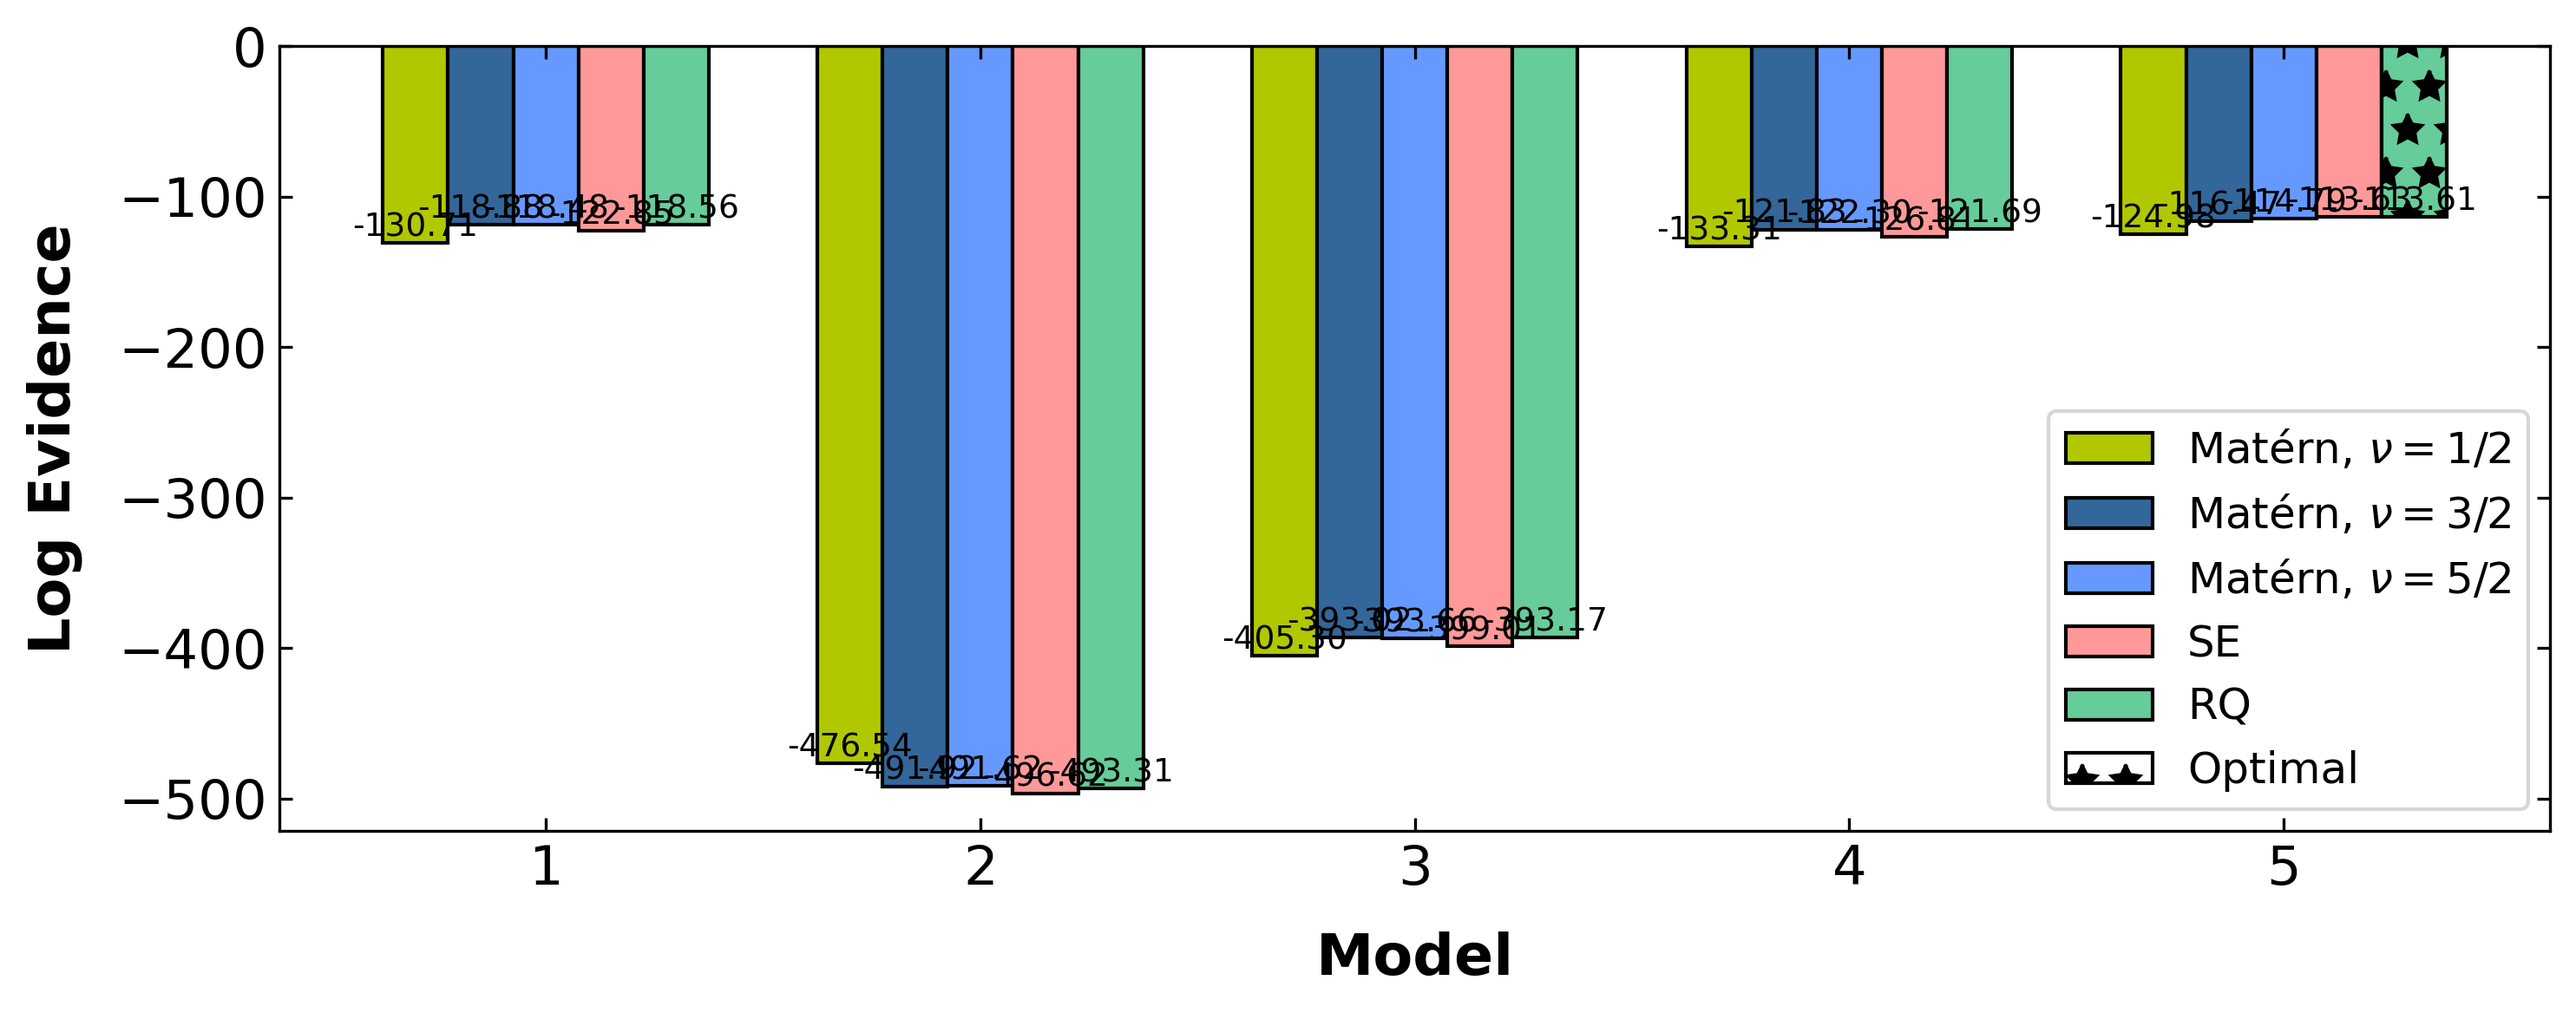
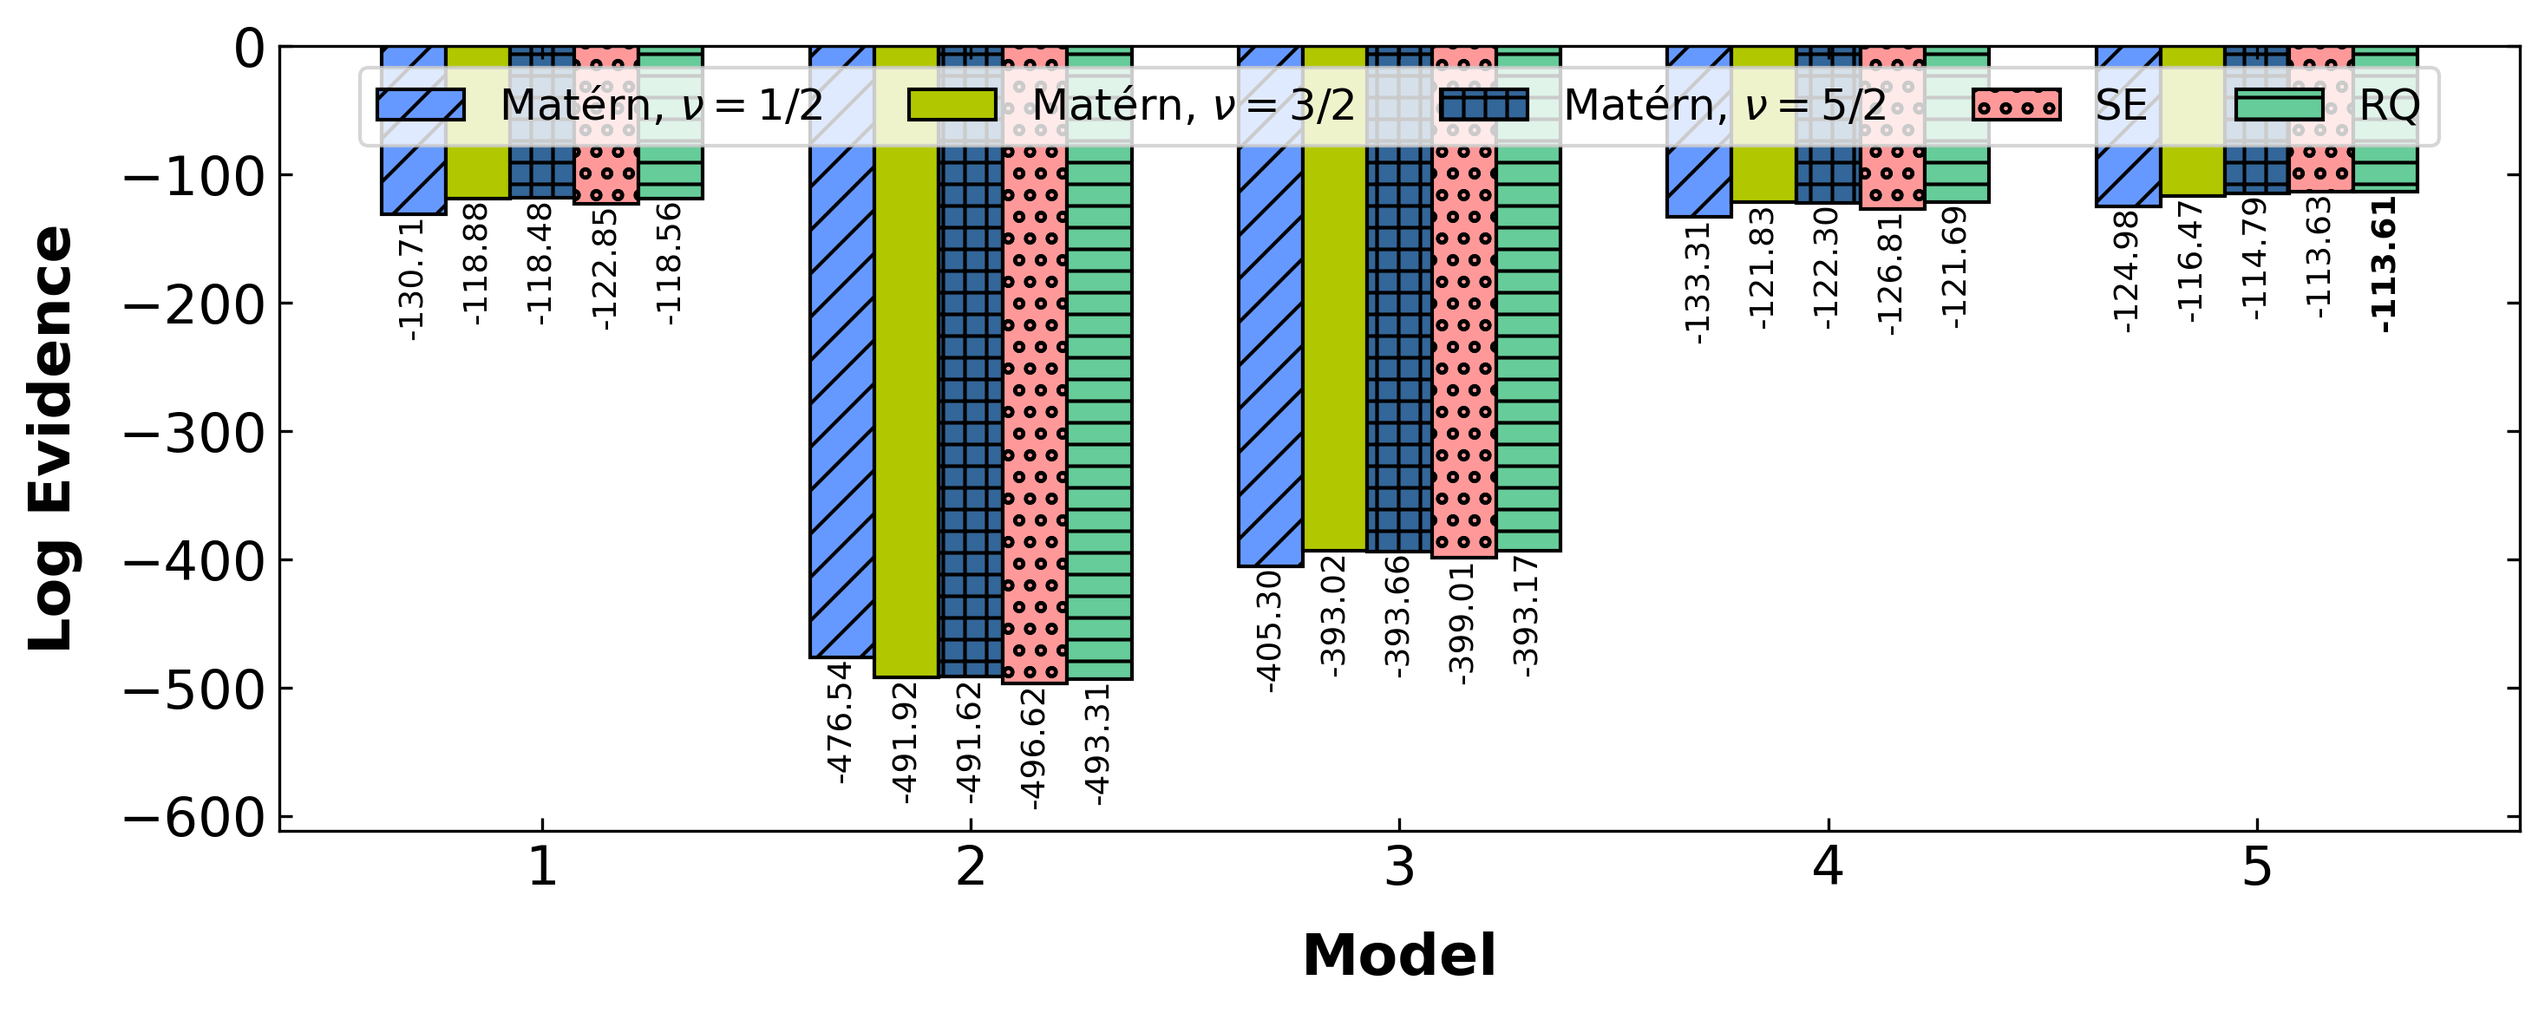
trying to figure out which files are missing

diff --git a/plot_lml_4real.py b/plot_lml_4real.py
@@ -4,6 +4,9 @@ import matplotlib.pyplot as plt
 import global_plot_settings
 from matplotlib.patches import Patch
 
+### Tb_5_Matern12_False is fake
+### Tb_5_RQ_True is fake
+
 global_plot_settings.set_plot_settings()
 
 # Read the CSV file containing the LML values
@@ -21,9 +24,14 @@ def rename_kernel(kernel):
         return "SE"
     else:
         return kernel
+    
+# Define your selected colors with the new color replacing mustard yellow
+selected_colors = ['#6699ff', '#b1c800', '#336699', '#ff9999', '#66cc99']
+hatches = ['//', None, '++', 'oo', '--']
 
 # Create a bar chart for each thermophysical property
 for property in df['Property'].unique():
+    print('--------'+property)
    
     # Filter the DataFrame for the current thermophysical property
     property_df = df[df['Property'] == property]
@@ -34,62 +42,82 @@ for property in df['Property'].unique():
     # Get unique models and kernels
     models = filtered_df['Model'].unique()
     kernels = filtered_df['Kernel'].unique()
-    
-    # Rename the kernels using the function
     renamed_kernels = [rename_kernel(kernel) for kernel in kernels]
-    
+
     # Set the positions and width for the bars
     bar_width = 0.15
     index = np.arange(len(models))
-    
-    # Define your selected colors with the new color replacing mustard yellow
-    selected_colors = ['#b1c800', '#336699', '#6699ff', '#ff9999', '#66cc99']
-    
-    # Create a bar chart for each kernel
-    plt.figure(figsize=(10, 4))
-    
-    for i, kernel in enumerate(kernels):
-        # Filter data for the specific kernel
-        kernel_df = filtered_df[filtered_df['Kernel'] == kernel]
-        
-        # Extract LML values and corresponding model numbers
-        lml_values = kernel_df['LML'].values
-        model_indices = [np.where(models == model)[0][0] for model in kernel_df['Model']]
-        
-        # Offset the bar positions by multiplying i by bar_width
-        bars = plt.bar(index + i * bar_width, lml_values, bar_width, label=rename_kernel(kernel), 
-                       color=selected_colors[i], edgecolor='black')  # Add black edgecolor
-        
-        # Add LML value callouts above each bar
-        for bar, value in zip(bars, lml_values):
-            plt.text(bar.get_x() + bar.get_width() / 2, bar.get_height(),
-                     f'{value:.2f}', ha='center', va='bottom', fontsize=9, color='black')
 
-    # Highlight the bar with the maximum LML value only once
+    # Determine the max LML and its correspnding index, model, and kernel
+    max_LML = max(filtered_df['LML'])
+    min_LML = min(filtered_df['LML'])
     max_index = filtered_df['LML'].idxmax()
     max_model = filtered_df.loc[max_index, 'Model']
     max_kernel = filtered_df.loc[max_index, 'Kernel']
     max_model_idx = np.where(models == max_model)[0][0]
     max_kernel_idx = kernels.tolist().index(max_kernel)
-    
-    # Plot the max value in the same color but with a hatch and black outline
-    plt.bar(index[max_model_idx] + max_kernel_idx * bar_width,
-            filtered_df.loc[max_index, 'LML'],
-            bar_width, color=selected_colors[max_kernel_idx], hatch='*', edgecolor='black')
 
-    # Create a custom legend entry for the "Optimal" bar with a black outline
-    optimal_patch = Patch(facecolor='white', edgecolor='black', hatch='*', label='Optimal')
+    # Create a bar chart with all kernels
+    plt.figure(figsize=(10, 4))
+    
+    # Loop over each kernel
+    for i, kernel in enumerate(kernels):
+        
+        # Filter data for the specific kernel
+        kernel_df = filtered_df[filtered_df['Kernel'] == kernel]
+        print(kernel_df)
+
+        # Extract LML values and corresponding model numbers
+        lml_values = kernel_df['LML'].values
+        model_indices = [np.where(models == model)[0][0] for model in kernel_df['Model']]
+        print(model_indices)
+        
+        # Offset the bar positions by multiplying i by bar_width
+        bars = plt.bar(index + i * bar_width, 
+                       lml_values,
+                       bar_width, 
+                       label = renamed_kernels[i], 
+                       color = selected_colors[i], 
+                       hatch = hatches[i], 
+                       edgecolor = 'black')
+        
+        # Add LML value callouts above each bar, with bold for the optimal value
+        for j, (bar, value) in enumerate(zip(bars, lml_values)):
+            if j == max_model_idx and i == max_kernel_idx:
+                weight = 'bold'
+            else:
+                weight = 'normal'
+            
+            # Position text slightly above the bar height with a balanced offset
+            plt.text(bar.get_x() + 0.5 * bar.get_width(), 
+                     bar.get_height(),
+                     f'{value:.2f}', 
+                     ha = 'center', 
+                     va = 'top', 
+                     rotation = 90, 
+                     fontsize = 9, 
+                     fontweight = weight)
     
     # Add labels and title
     plt.xlabel('Model')
     plt.ylabel('Log Evidence')
     plt.xticks(index + bar_width * (len(kernels) - 1) / 2, models)
+
+    offset = abs(max_LML - min_LML) * 0.3
+    # all LML values negative
+    if max_LML <= 0 and min_LML <= 0:
+        plt.ylim(min_LML - offset, 0)
+    # all LML values positive
+    elif max_LML >= 0 and min_LML >= 0:
+        plt.ylim(0, max_LML + offset)
+    # LML values both psitive and negative
+    else:
+        plt.ylim(min_LML - offset, max_LML + offset)
     
     # Include the custom "Optimal" patch and kernel patches with black outlines in the legend
-    plt.legend(loc='lower right', handles=[Patch(facecolor=selected_colors[i], edgecolor='black', label=renamed_kernels[i]) for i in range(len(kernels))] + [optimal_patch])
+    plt.legend(ncol = len(kernels), loc='upper center', handles=[Patch(facecolor=selected_colors[i], hatch = hatches[i], edgecolor='black', label=renamed_kernels[i]) for i in range(len(kernels))])
     plt.tight_layout()
     
     # Save the plot as a PNG file
     plt.savefig(f'lml_bar_chart_{property}.png')
     plt.close()
-    exit()

diff --git a/plot_error.py b/plot_error.py
@@ -1,7 +1,8 @@
+import os
 import numpy as np
 import pandas as pd
-import os
 import matplotlib.pyplot as plt
+import matplotlib.patches as mpatches
 import global_plot_settings as rcParams
 
 # Set global plot settings
@@ -9,7 +10,7 @@ rcParams.set_plot_settings()
 
 # Define custom colors
 mysalmon = (235/255, 134/255, 100/255)
-myteal = (103/255, 185/255, 155/255)
+myteal   = (103/255, 185/255, 155/255)
 
 # Define labels for the x-axis
 xlabels = [
@@ -21,7 +22,7 @@ xlabels = [
     '$V_c$' + '\n [cm' + '$^{3}$' + '$\cdot$' + ' mol' + '$^{-1}$' + ']'
 ]
 
-def plot_error_bars(ax, train_file, test_file, xlabels, width=0.2, ylabel=True, show_legend=False):
+def plot_error_bars(ax, train_file, test_file, xlabels, width=0.2, ylabel=True):
     """Plots error bars for the train and test datasets on a given axis."""
     # Load data
     train = pd.read_csv(train_file, index_col=0)
@@ -31,12 +32,12 @@ def plot_error_bars(ax, train_file, test_file, xlabels, width=0.2, ylabel=True, 
     x = np.arange(no_cats)
     
     # Plot MAE bars
-    bars1 = ax.bar(x - 1.5*width, train.loc['MAE'], width, color=mysalmon, edgecolor='k', label='Train MAE')
-    bars2 = ax.bar(x - width/2, test.loc['MAE'], width, color=mysalmon, edgecolor='k', hatch='//', label='Test MAE')
+    bars1 = ax.bar(x - 1.5*width, train.loc['MAE'], width, color=mysalmon, edgecolor='k')
+    bars2 = ax.bar(x - width/2, test.loc['MAE'], width, color=mysalmon, edgecolor='k', hatch='//')
     
     # Plot RMSE bars
-    bars3 = ax.bar(x + width/2, train.loc['RMSE'], width, color=myteal, edgecolor='k', label='Train RMSE')
-    bars4 = ax.bar(x + 1.5*width, test.loc['RMSE'], width, color=myteal, edgecolor='k', hatch='//', label='Test RMSE')
+    bars3 = ax.bar(x + width/2, train.loc['RMSE'], width, color=myteal, edgecolor='k')
+    bars4 = ax.bar(x + 1.5*width, test.loc['RMSE'], width, color=myteal, edgecolor='k', hatch='//')
     
     # Add error values on top of bars with rotation and consistent formatting
     for bars in [bars1, bars2, bars3, bars4]:
@@ -54,22 +55,34 @@ def plot_error_bars(ax, train_file, test_file, xlabels, width=0.2, ylabel=True, 
     
     # Rotate x-axis labels
     ax.tick_params(axis='x', labelrotation=60)
+
+def create_custom_legend(ax):
+    """Creates a custom legend for the plot."""
+    # Custom legend handles
+    legend_patches = [
+        mpatches.Patch(color=mysalmon, label='MAE'),
+        mpatches.Patch(color=myteal, label='RMSE'),
+        mpatches.Patch(facecolor='white', edgecolor='black', hatch='//', label='Test'),
+        mpatches.Patch(facecolor='white', edgecolor='black', label='Train')
+    ]
     
-    # Add legend only if requested
-    if show_legend:
-        ax.legend(loc='upper right')
+    # Adding custom legend to the plot
+    ax.legend(handles=legend_patches, loc='upper right', fontsize=10)
 
 def create_shared_yaxis_plots(train_file_1, test_file_1, train_file_2, test_file_2, xlabels, output_file, width=0.2):
     """Creates two subplots with a shared y-axis."""
     fig, (ax1, ax2) = plt.subplots(1, 2, figsize=(10, 6), sharey=True)
     
     # Plot the Joback model results on the left axis with legend
-    plot_error_bars(ax1, train_file_2, test_file_2, xlabels, width, show_legend=False)
+    plot_error_bars(ax1, train_file_2, test_file_2, xlabels, width)
     ax1.text(-0.35, 155, "(a) Joback", fontsize = 14, fontweight = 'bold')
     
     # Plot the model with discrepancy correction on the right axis with the legend
-    plot_error_bars(ax2, train_file_1, test_file_1, xlabels, width, ylabel=False, show_legend=True)
+    plot_error_bars(ax2, train_file_1, test_file_1, xlabels, width, ylabel=False)
     ax2.text(-0.35, 155, "(b) Hybrid", fontsize = 14, fontweight = 'bold')
+    
+    # Create and add custom legend
+    create_custom_legend(ax2)
     
     ax1.set_ylim(0, 170)
     # Save the figure to a file
